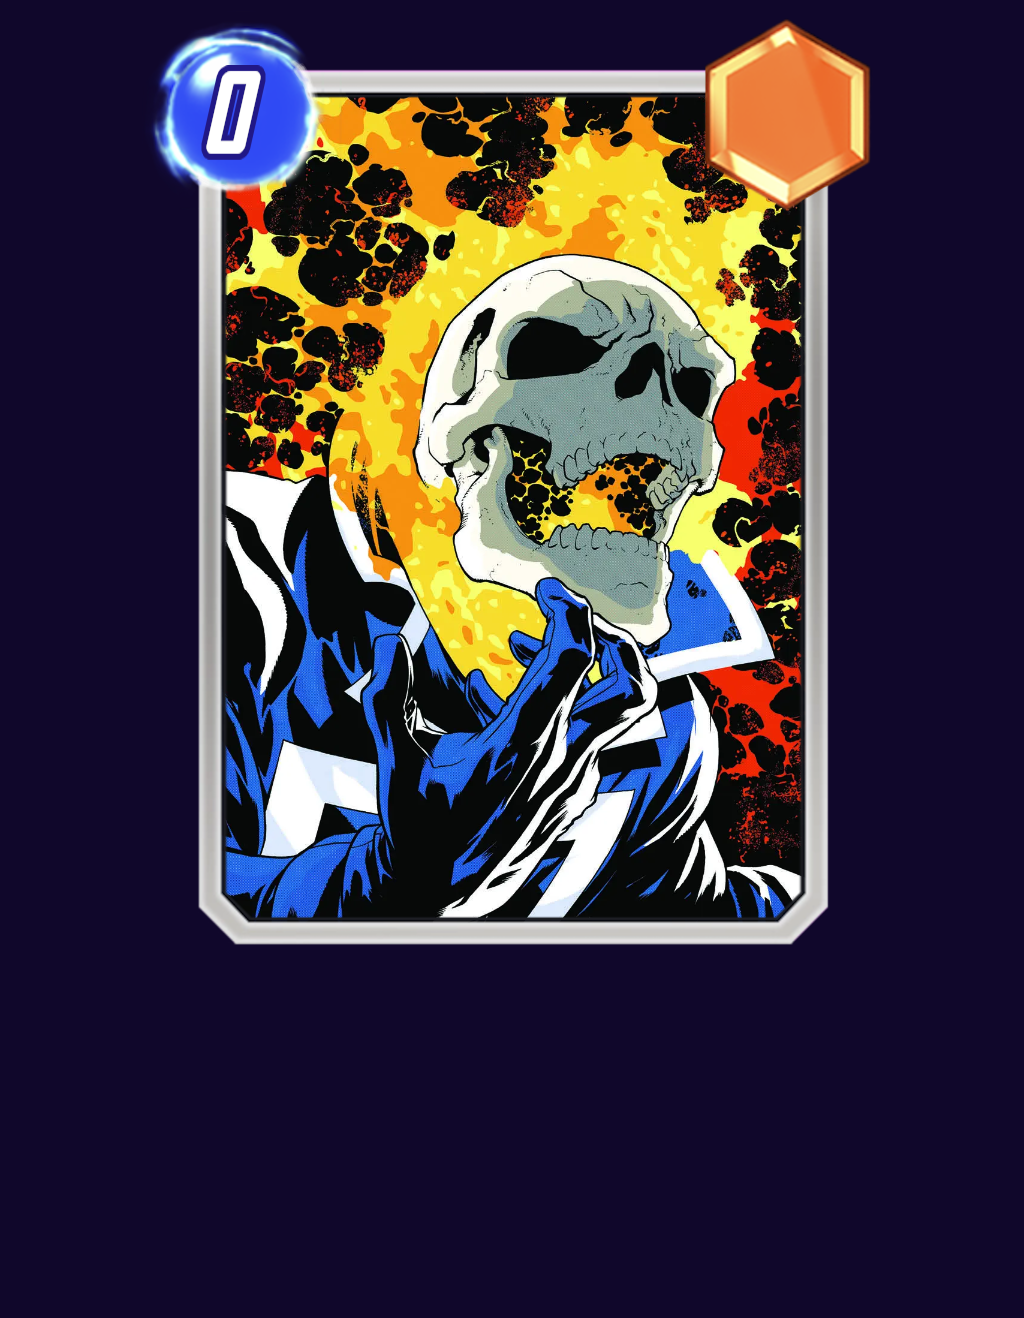
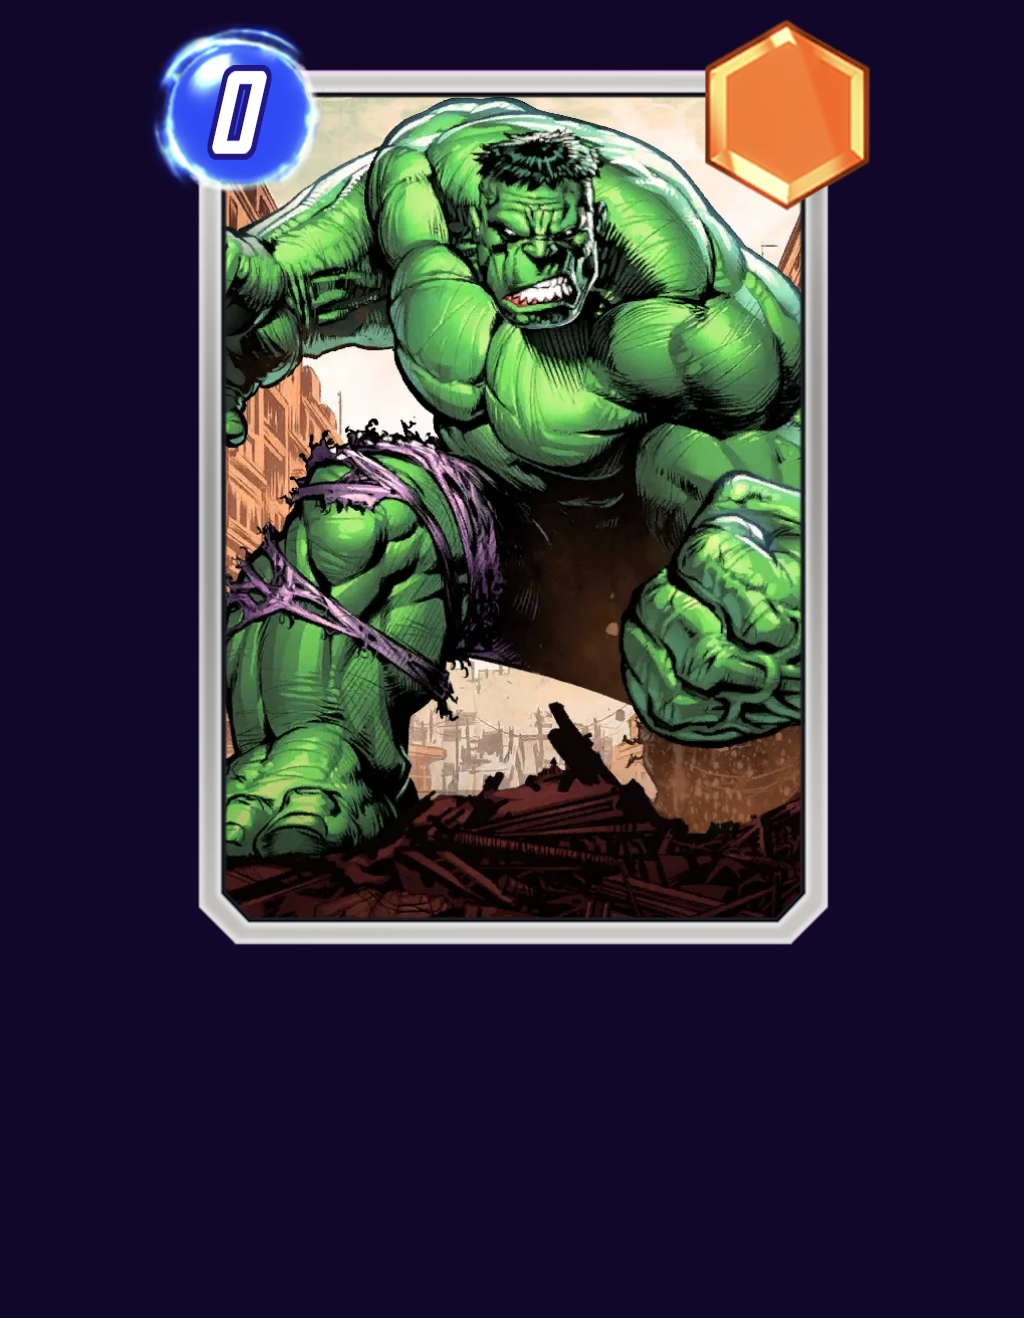
changed default card

diff --git a/CustomMarvelSnap/scripts/cardDesign.js b/CustomMarvelSnap/scripts/cardDesign.js
@@ -8,7 +8,7 @@ async function generatecard(name, colorName, cost, power, description, size=1024
     const artMask = await getImg("../res/img/default_cards/art_mask.png");
     ctx.drawImage(artMask, 0, 0, size, size);
     // Background
-    let backgroundImg = await getImg("../res/img/default_cards/ghost_rider.png");
+    let backgroundImg = await getImg("../res/img/default_cards/hulk.png");
     if (imagesBase64.mainImage) {
         const mainImg = new Image();
         mainImg.src = imagesBase64.mainImage;
